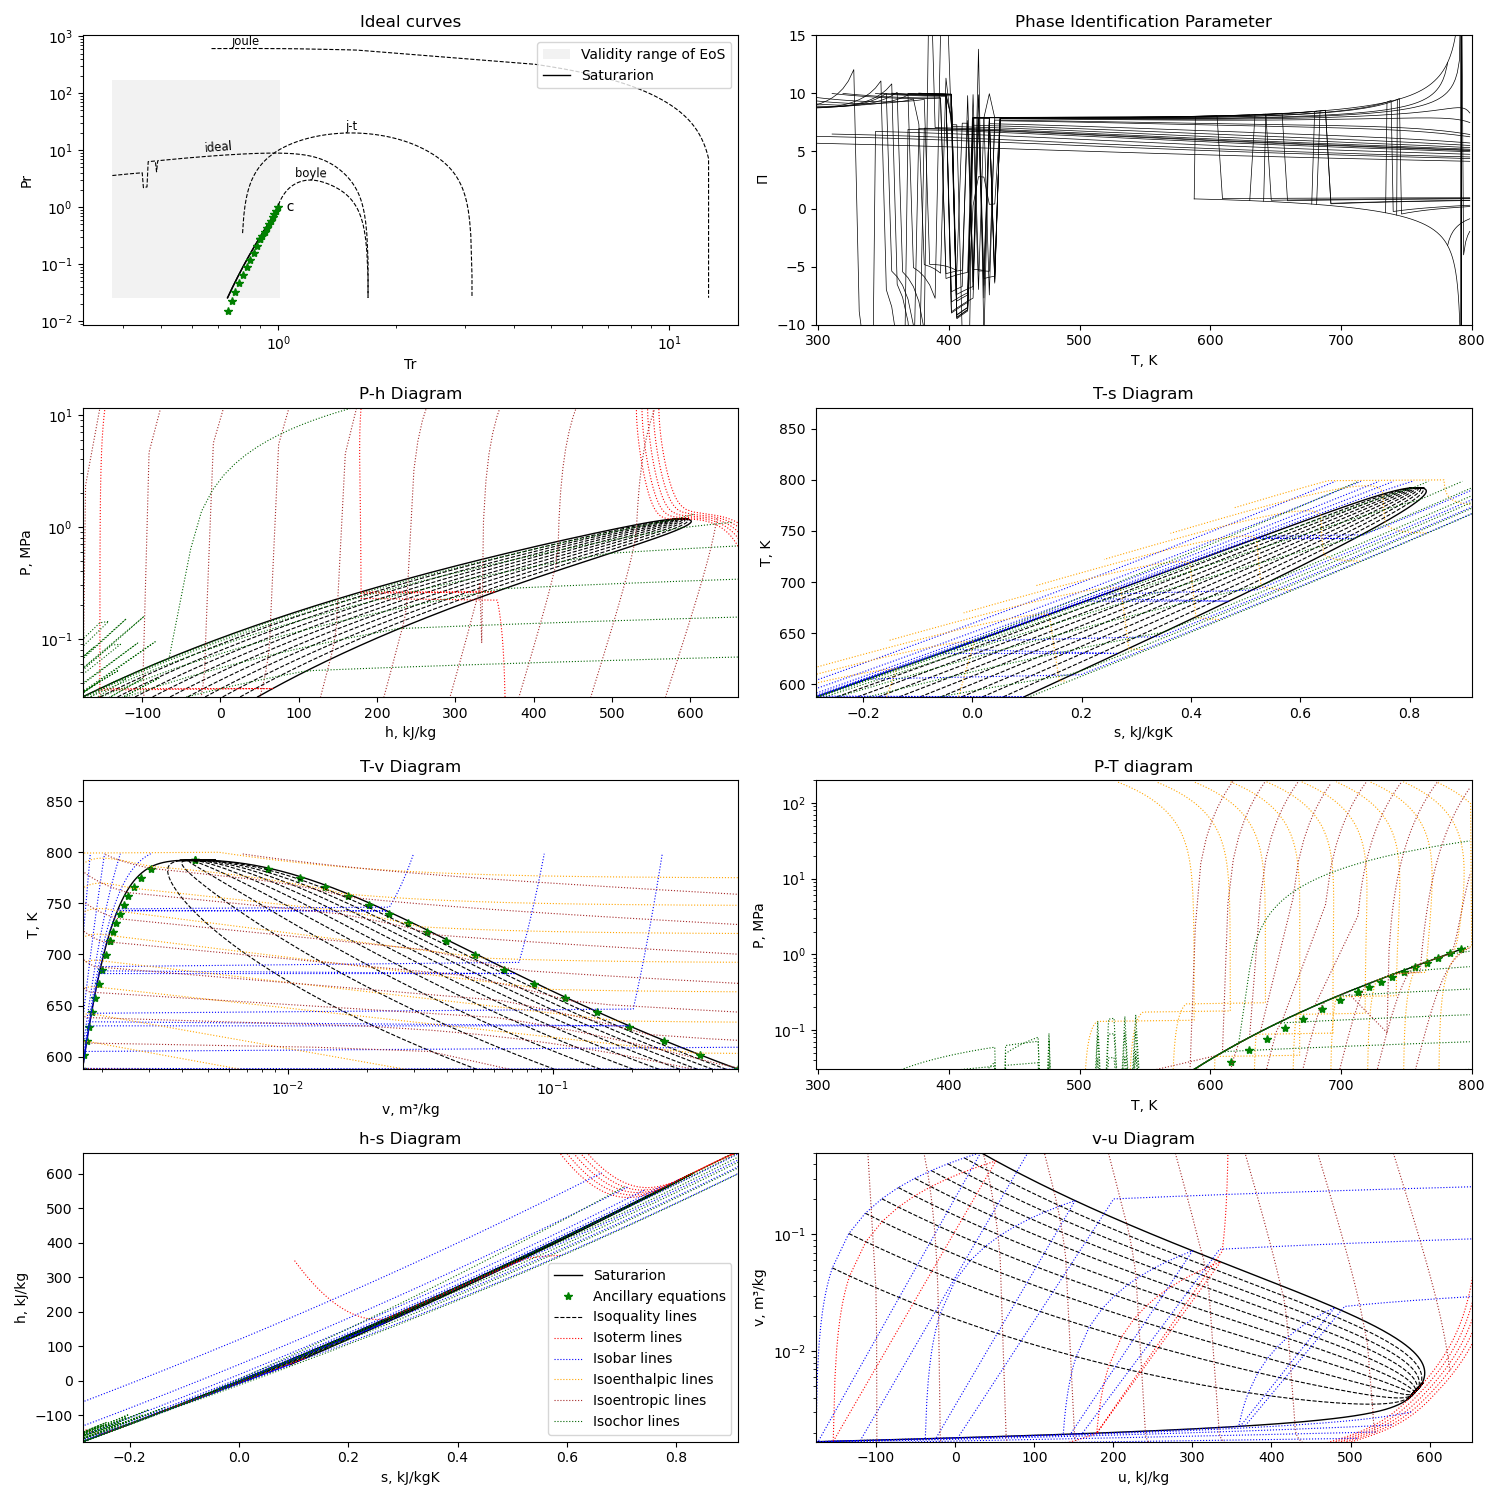
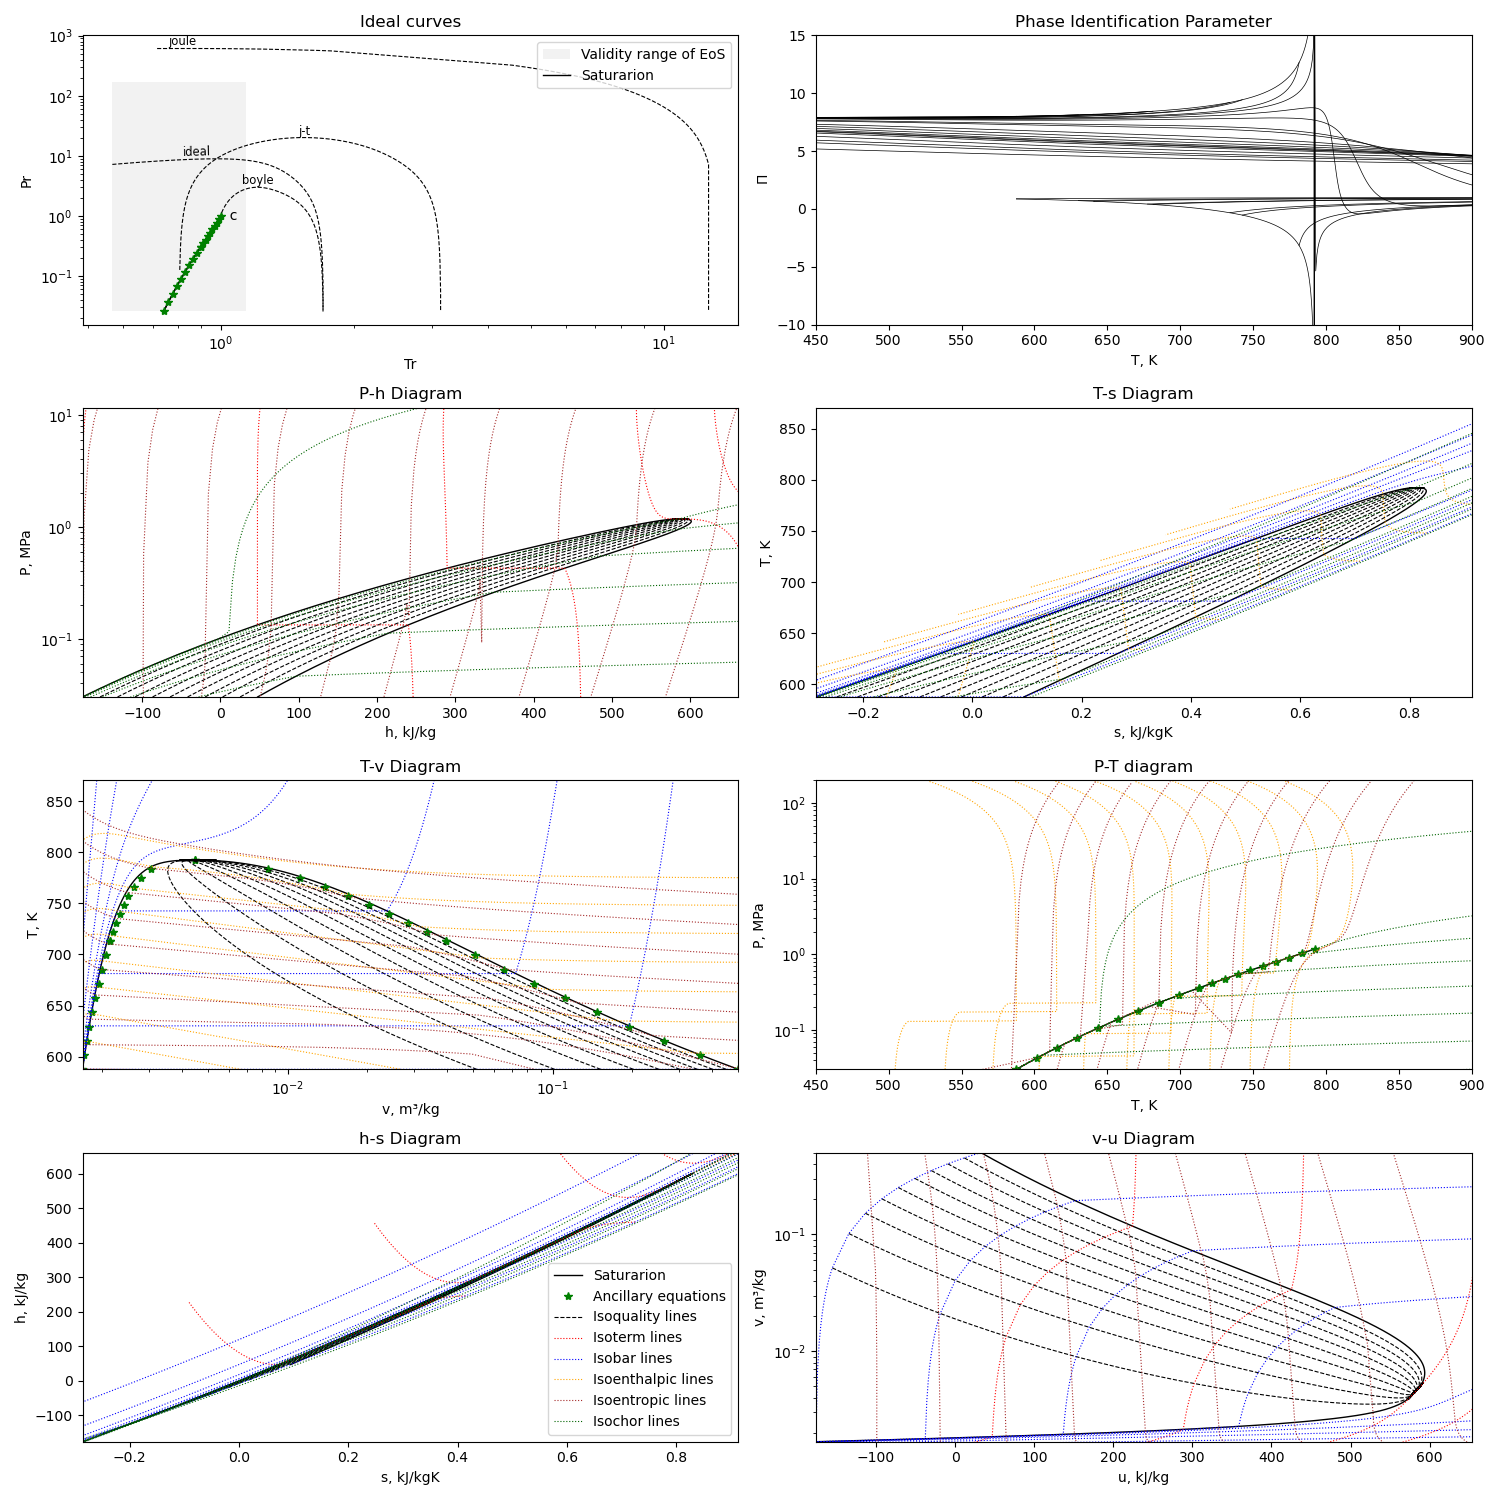
Correct vapour pressure ancillary equation for n-docosene and undate documentation image

diff --git a/lib/mEoS/nC22.py b/lib/mEoS/nC22.py
@@ -93,11 +93,15 @@ class nC22(MEoS):
                     "doi": "10.1063/5.0048675"},
         "sigma": [0.0522], "exp": [1.25]}
 
-    # FIXME: Vapor Pressure ancillary equation don't fit the values at low T
+    # Vapor Pressure ancillary equation don't fit the values at low T, using
+    # REFPROP correlation
     _vapor_Pressure = {
         "eq": 3,
-        "n": [-12.3834, 2.8818, -11.6292, -2.7357, -7.3103, 1188.9117],
-        "t": [1.0, 1.5, 2.7, 5.5, 14.1, 52.1]}
+        # "n": [-12.3834, 2.8818, -11.6292, -2.7357, -7.3103, 1188.9117],
+        # "t": [1.0, 1.5, 2.7, 5.5, 14.1, 52.1]}
+        "n": [-12.833, 12.329, -11.667, -8.0806, -5.7157],
+        "t": [1.0, 1.5, 1.85, 3.6, 10.5]}
+
     _liquid_Density = {
         "eq": 1,
         "n": [6.6254, -11.0123, 13.6452, -8.8244, 3.1241],
